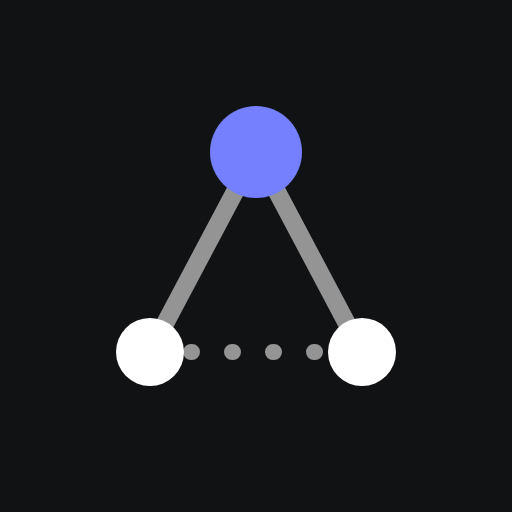
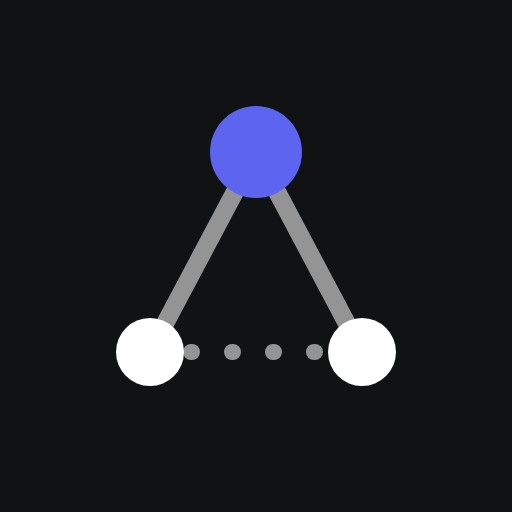
Restraint: monochrome plus one indigo accent
Graphite glass orbs for every goal, one neutral dark glass for post
covers, a silver background sheen, softened status colors kept only
where they carry meaning, and an indigo brand star.

Claude-Session: https://claude.ai/code/session_01NWaYGsX8xkcTiwACgsLAUj

Changed region(s): [[0.4062, 0.1875, 0.5938, 0.4062]]

diff --git a/index.html b/index.html
@@ -392,6 +392,44 @@ body{background:var(--bg)}
 @keyframes glint{0%,100%{filter:drop-shadow(0 0 0 rgba(124,131,255,0))}50%{filter:drop-shadow(0 0 4px rgba(124,131,255,.9))}}
 @media (prefers-reduced-motion: reduce){.sheen i,.brand-mark .star{animation:none}.rv{opacity:1;transform:none;transition:none}}
 @media (max-width:520px){.goal-h.space{padding:22px 18px;border-radius:20px}.cmap.space{padding:18px 16px 8px}}
+
+/* ============================================================
+   Restraint: monochrome plus one accent (indigo). Color only where
+   it means something: the accent on actions and the brand mark,
+   softened status colors on the map. Research: fewer colors and
+   calmer tones read as more premium and more trustworthy.
+   ============================================================ */
+:root{--accent:#4F57E8;--accent-soft:rgba(79,87,232,.08);--accent-line:rgba(79,87,232,.30);
+  --solved:#3E9C78;--progress:#B8955A;--blocked:#D9605F;--open:#C9CBD1}
+@media (prefers-color-scheme: dark){:root{--accent:#8F96FF;--solved:#5BC79C;--progress:#D6B477;--blocked:#F07B7A;--open:#43464F}}
+.space,.cover{--solved:#5BC79C;--progress:#D6B477;--blocked:#F07B7A;--open:#454A60}
+.sheen i:nth-child(1){background:radial-gradient(circle,rgba(110,116,200,.16),transparent 62%)}
+.sheen i:nth-child(2){background:radial-gradient(circle,rgba(160,165,185,.14),transparent 62%)}
+.sheen i:nth-child(3){background:radial-gradient(circle,rgba(130,135,170,.12),transparent 62%)}
+.post::after,.gcard::after{background:linear-gradient(135deg,rgba(79,87,232,.55),rgba(255,255,255,.0) 45%,rgba(79,87,232,.35))}
+.kind{--k:var(--faint)} .kind.bottleneck{--k:var(--blocked)} .kind.advance,.kind.solved,.kind.setback,.kind.forgotten,.kind.promise,.kind.mapped{--k:var(--muted)}
+.kind::before{box-shadow:none}
+.cover .kind.bottleneck{--k:var(--blocked)}
+.cover{background:
+    radial-gradient(1px 1px at 18% 30%,rgba(255,255,255,.5),transparent 60%),
+    radial-gradient(1px 1px at 72% 18%,rgba(255,255,255,.4),transparent 60%),
+    radial-gradient(1.5px 1.5px at 86% 64%,rgba(255,255,255,.4),transparent 60%),
+    radial-gradient(1px 1px at 40% 82%,rgba(255,255,255,.3),transparent 60%),
+    radial-gradient(110% 130% at 0% 0%,rgba(110,118,255,.20),transparent 55%),
+    linear-gradient(rgba(255,255,255,.035) 1px,transparent 1px) 0 0/24px 24px,
+    linear-gradient(90deg,rgba(255,255,255,.035) 1px,transparent 1px) 0 0/24px 24px,
+    linear-gradient(160deg,#16171F 0%,#0B0C11 100%);
+  box-shadow:inset 0 1px 0 rgba(255,255,255,.10),inset 0 0 0 1px rgba(255,255,255,.05),0 18px 38px -24px rgba(15,16,40,.55)}
+.av,.story .av,.story.fol .av{text-shadow:none}
+.story.fol .av{box-shadow:0 0 0 2px var(--bg),0 0 0 3.5px var(--accent),inset -6px -9px 14px rgba(0,0,0,.35),inset 5px 6px 10px rgba(255,255,255,.22),0 10px 24px -10px rgba(15,16,40,.45)}
+.gcard .gp .segbar i{background:var(--ink)!important}
+.metric .v{background:none;color:var(--ink);-webkit-text-fill-color:currentColor}
+.goal-h.space h1{background:none;color:#fff;-webkit-text-fill-color:#fff}
+.segbar i{box-shadow:none}
+.btn.following{background:var(--accent-soft);border:1px solid transparent;color:var(--accent)}
+.goal-h.space .btn.following{background:rgba(143,150,255,.16);color:#fff}
+.space{background:radial-gradient(90% 120% at 15% 0%,#191B2E 0%,transparent 60%),#07080D}
+.btn.primary{box-shadow:none}
 </style>
 </head>
 <body>
@@ -399,7 +437,7 @@ body{background:var(--bg)}
 <header class="top">
   <div class="top-in">
     <a class="brand" href="#/" aria-label="Parallax home">
-      <svg class="brand-mark" viewBox="0 0 26 26" aria-hidden="true"><line x1="5" y1="20.5" x2="21" y2="20.5" stroke="currentColor" stroke-width="1.4" stroke-linecap="round" stroke-dasharray="0.1 3.2" opacity=".55"/><line x1="5" y1="20.5" x2="13" y2="5.5" stroke="currentColor" stroke-width="1.5" stroke-linecap="round" opacity=".5"/><line x1="21" y1="20.5" x2="13" y2="5.5" stroke="currentColor" stroke-width="1.5" stroke-linecap="round" opacity=".5"/><circle cx="5" cy="20.5" r="2.6" fill="currentColor"/><circle cx="21" cy="20.5" r="2.6" fill="currentColor"/><defs><linearGradient id="iriG" x1="0" y1="0" x2="1" y2="1"><stop offset="0" stop-color="#7C83FF"/><stop offset=".5" stop-color="#5EEAD4"/><stop offset="1" stop-color="#C084FC"/></linearGradient></defs><circle class="star" cx="13" cy="5.5" r="3.4" fill="url(#iriG)"/></svg>
+      <svg class="brand-mark" viewBox="0 0 26 26" aria-hidden="true"><line x1="5" y1="20.5" x2="21" y2="20.5" stroke="currentColor" stroke-width="1.4" stroke-linecap="round" stroke-dasharray="0.1 3.2" opacity=".55"/><line x1="5" y1="20.5" x2="13" y2="5.5" stroke="currentColor" stroke-width="1.5" stroke-linecap="round" opacity=".5"/><line x1="21" y1="20.5" x2="13" y2="5.5" stroke="currentColor" stroke-width="1.5" stroke-linecap="round" opacity=".5"/><circle cx="5" cy="20.5" r="2.6" fill="currentColor"/><circle cx="21" cy="20.5" r="2.6" fill="currentColor"/><defs><linearGradient id="iriG" x1="0" y1="0" x2="1" y2="1"><stop offset="0" stop-color="#8A90FF"/><stop offset="1" stop-color="#4F57E8"/></linearGradient></defs><circle class="star" cx="13" cy="5.5" r="3.4" fill="url(#iriG)"/></svg>
       <span class="brand-word">Parallax</span>
     </a>
     <form class="search" id="searchForm" role="search" autocomplete="off">
@@ -467,7 +505,8 @@ function hue(str) {
 // Each goal gets an orb: a soft gradient sphere in its own hue.
 function orb(seed, sat = 78) {
   const h = hue(seed), h2 = (h + 34) % 360;
-  return `--glow:hsl(${h} 85% 55% / .55);background:radial-gradient(120% 120% at 28% 18%,hsl(${h} ${sat}% 76%) 0%,hsl(${h} ${sat - 6}% 54%) 42%,hsl(${h2} ${sat - 12}% 30%) 100%)`;
+  void h; void h2; void sat;
+  return `--glow:rgba(15,16,40,.45);background:radial-gradient(120% 120% at 28% 18%,#5B5E6E 0%,#2A2C36 45%,#0E0F14 100%)`;
 }
 function avatar(g, big = false) {
   const initials = String(g.handle || '?').replace(/[^A-Za-z0-9]/g, '').slice(0, 2).toUpperCase() || '?';
@@ -1326,7 +1365,7 @@ function starfield(canvas) {
       const x = ((s.x - px * 26 * s.d - time * 0.004 * s.d) % w + w) % w;
       const y = ((s.y - py * 18 * s.d - sy * 0.12 * s.d) % h + h) % h;
       const a = 0.35 + 0.55 * s.d * (0.75 + 0.25 * Math.sin(time / 900 + s.t));
-      ctx.fillStyle = s.tint > 0.8 ? `rgba(190,200,255,${a})` : s.tint > 0.65 ? `rgba(160,255,240,${a * 0.9})` : `rgba(255,255,255,${a})`;
+      ctx.fillStyle = s.tint > 0.85 ? `rgba(200,205,255,${a})` : `rgba(255,255,255,${a})`;
       ctx.beginPath(); ctx.arc(x, y, s.r, 0, 6.283); ctx.fill();
     }
   };
